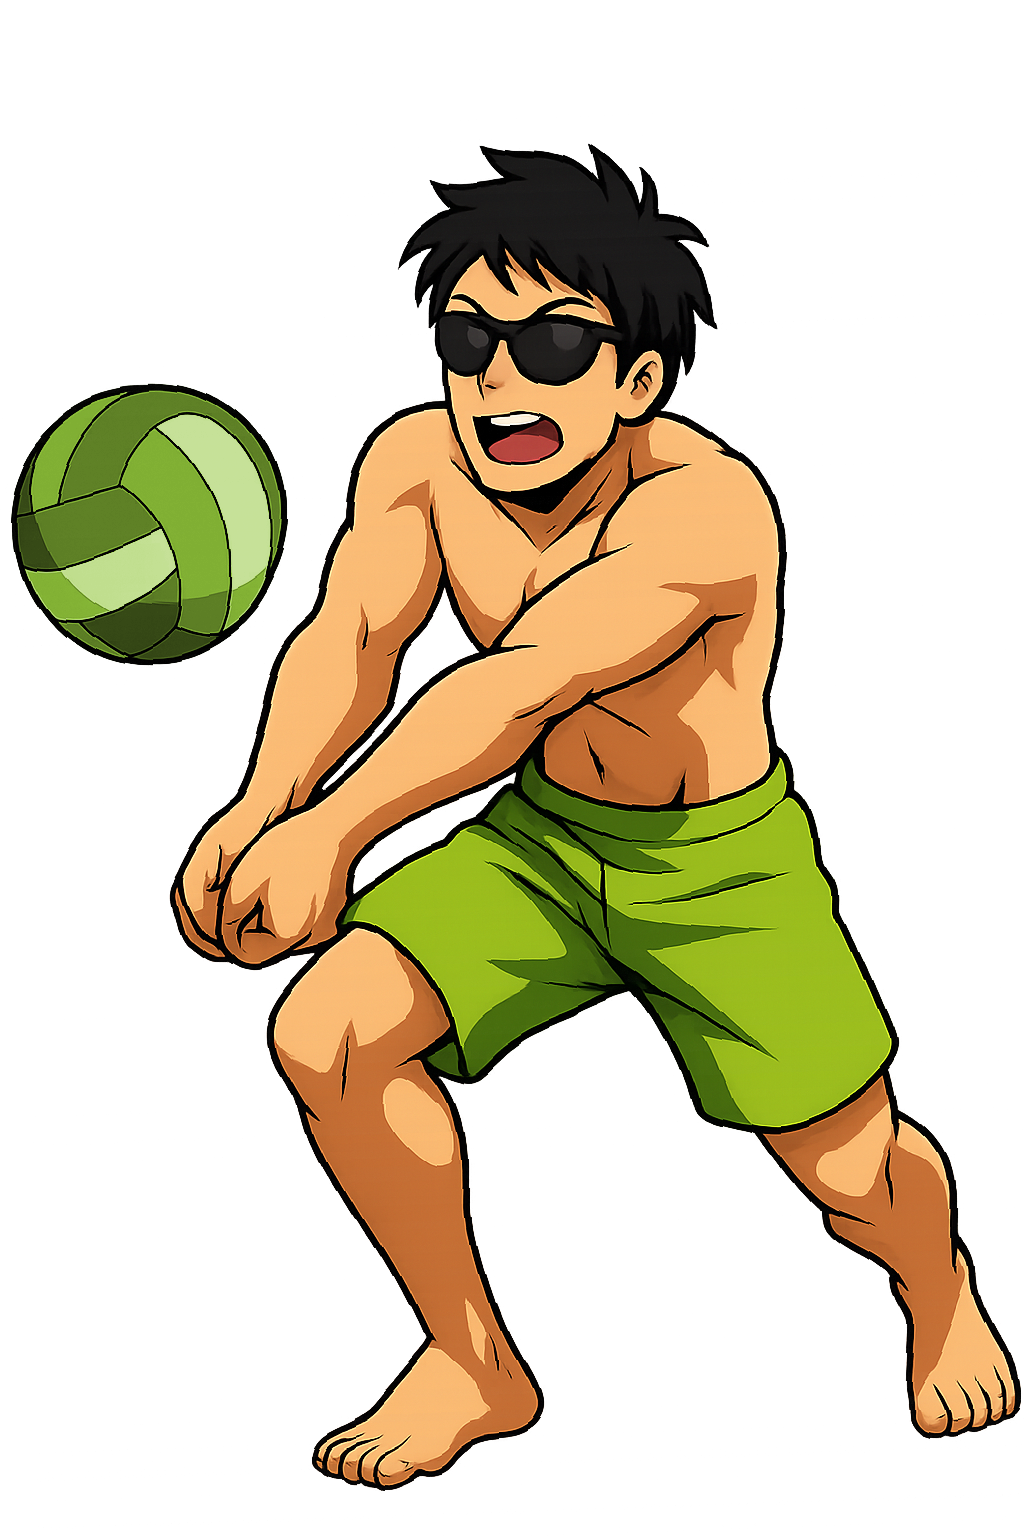
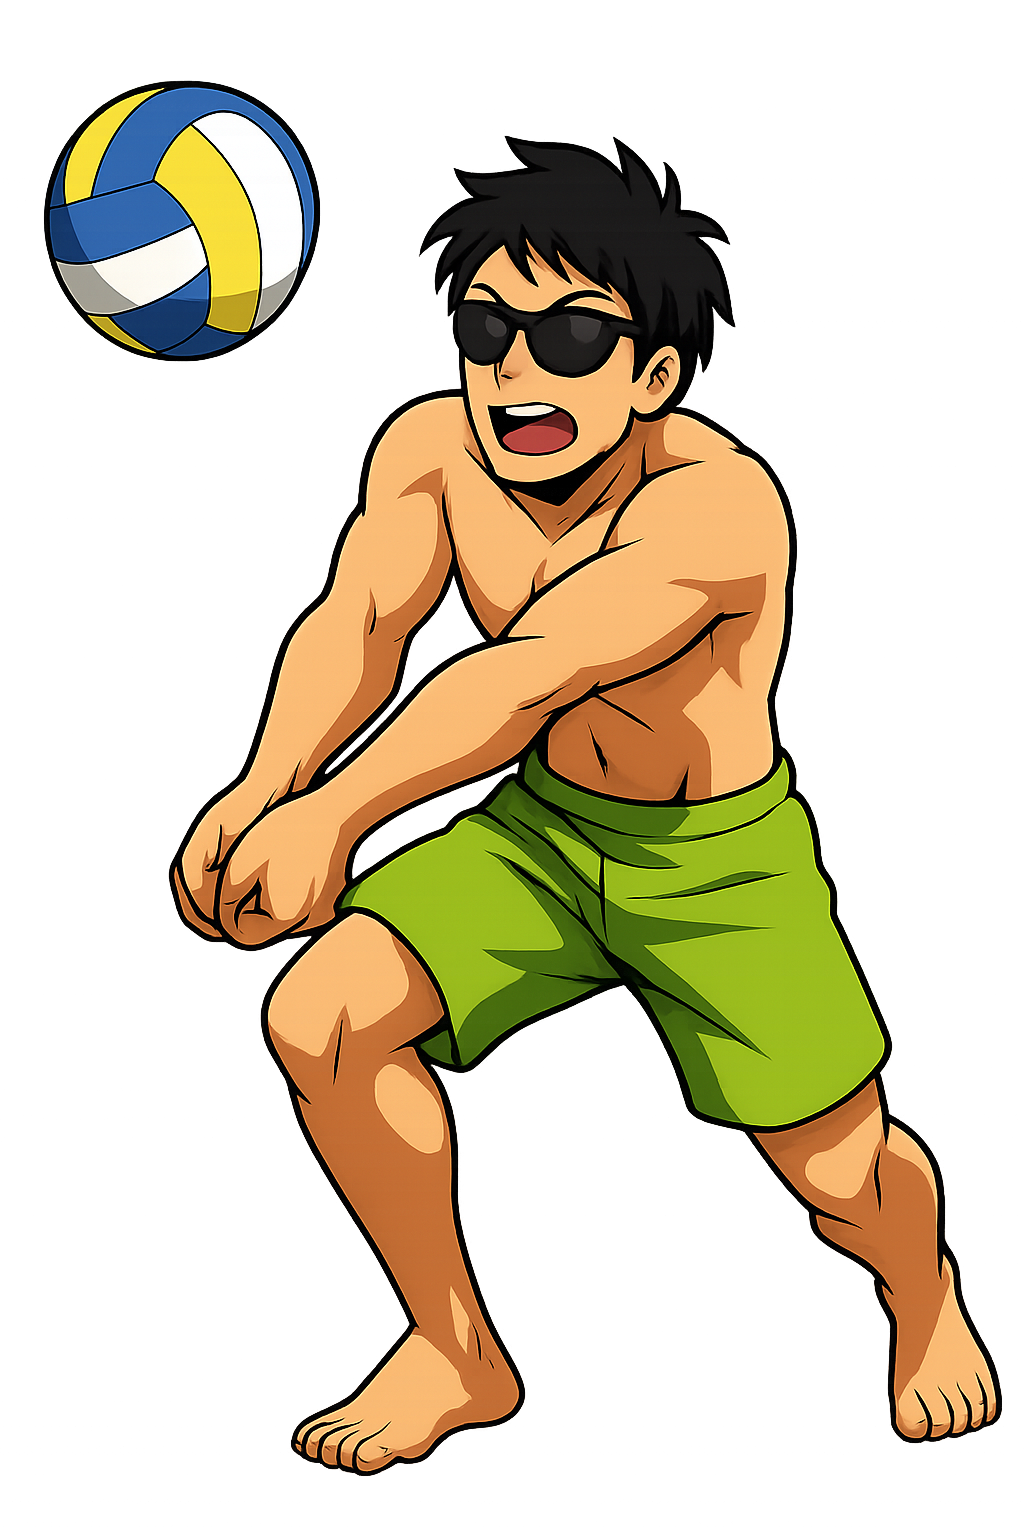
started working on match page

diff --git a/MatchBy/MatchBy/wwwroot/map.js b/MatchBy/MatchBy/wwwroot/map.js
@@ -1,3 +1,15 @@
+window.initMatchPageMap = (lat, lng) => {
+    window._matchPageLat = lat;
+    window._matchPageLng = lng;
+
+    const el = document.getElementById("matchPageMap");
+    if (el) {
+        window.initMapOn(el);
+    } else {
+        console.warn("matchPageMap não encontrado.");
+    }
+};
+
 window.initMapOn = async (el) => {
     const fallback = [0, 0];
 
@@ -44,7 +56,35 @@ window.initMapOn = async (el) => {
         }
     }
 
+    function distanceInKm(lat1, lon1, lat2, lon2) {
+            const R = 6371; // earth radius in km
+            const dLat = (lat2 - lat1) * Math.PI / 180;
+            const dLon = (lon2 - lon1) * Math.PI / 180;
+
+            const a =
+                Math.sin(dLat / 2) * Math.sin(dLat / 2) +
+                Math.cos(lat1 * Math.PI / 180) *
+                Math.cos(lat2 * Math.PI / 180) *
+                Math.sin(dLon / 2) * Math.sin(dLon / 2);
+
+            const c = 2 * Math.atan2(Math.sqrt(a), Math.sqrt(1 - a));
+
+            return R * c; 
+    }
+
     if (el.id === 'matchMap') {
+        if ('geolocation' in navigator) {
+            navigator.geolocation.getCurrentPosition(
+                (pos) => {
+                    const { latitude, longitude } = pos.coords;
+                    setPosition(latitude, longitude, 'Your location');
+                },
+                async () => await fallbackToCapital(),
+                { enableHighAccuracy: true, timeout: 8000, maximumAge: 30000 }
+            );
+        } else {
+            await fallbackToCapital();
+        }
         map.on('click', async (e) => {
             const { lat, lng } = e.latlng;
             setPosition(lat, lng, `Match location`);
@@ -69,17 +109,59 @@ window.initMapOn = async (el) => {
         });
     }
 
-    if ('geolocation' in navigator) {
-        navigator.geolocation.getCurrentPosition(
-            (pos) => {
-                const { latitude, longitude } = pos.coords;
-                setPosition(latitude, longitude, 'Your location');
-            },
-            async () => await fallbackToCapital(),
-            { enableHighAccuracy: true, timeout: 8000, maximumAge: 30000 }
-        );
-    } else {
-        await fallbackToCapital();
+    if (el.id === 'matchPageMap') {
+        const lat = window._matchPageLat;
+        const lng = window._matchPageLng;
+
+        const matchLatLng = [lat, lng];
+        const matchMarker = L.marker(matchLatLng)
+            .addTo(map)
+            .bindPopup("Match location");
+
+        window._matchMarker = matchMarker;
+
+        map.setView(matchLatLng, 15);
+
+        if ("geolocation" in navigator) {
+            navigator.geolocation.getCurrentPosition(
+                (pos) => {
+                    const userLat = pos.coords.latitude;
+                    const userLng = pos.coords.longitude;
+
+                    const userLatLng = [userLat, userLng];
+
+                    const userMarker = L.marker(userLatLng, { 
+                        icon: L.icon({
+                            iconUrl: "https://cdn-icons-png.flaticon.com/512/684/684908.png",
+                            iconSize: [35, 35],
+                            iconAnchor: [17, 34]
+                        })
+                    })
+                    .addTo(map);
+
+                    const distKm = distanceInKm(userLat, userLng, lat, lng);
+                    const distText =
+                        distKm < 1
+                            ? `${Math.round(distKm * 1000)} m`
+                            : `${distKm.toFixed(2)} km`;
+
+                    userMarker.bindPopup(`You are here<br>Distance to match: <b>${distText}</b>`);
+
+                    matchMarker.bindPopup(`Match location<br>Distance from you: <b>${distText}</b>`);
+
+                    L.polyline([userLatLng, matchLatLng], {
+                        color: "#405d13",
+                        weight: 5,
+                        opacity: 0.75
+                    }).addTo(map);
+
+                },
+                (err) => {
+                    console.warn("User location unavailable:", err);
+                },
+                { enableHighAccuracy: true, timeout: 8000, maximumAge: 30000 }
+            );
+        }
     }
 
     async function fallbackToCapital() {
@@ -107,7 +189,6 @@ window.initMapOn = async (el) => {
 
     setTimeout(() => map.invalidateSize(), 0);
 };
-
 
 window.registerMatchComponent = (dotnetObj) => {
     window._matchComponent = dotnetObj;
@@ -156,10 +237,13 @@ window.geocodeAddress = async function (address) {
 
     ensureInit(document.getElementById('matchMap'));
 
-    const obs = new MutationObserver((muts) => {
-        for (const m of muts)
-            for (const n of m.addedNodes)
-                ensureInit(n);
+    const first = document.getElementById('matchMap');
+    if (first) ensureInit(first);
+
+    const obs = new MutationObserver((mutations) => {
+        for (const m of mutations)
+            for (const added of m.addedNodes)
+                ensureInit(added);
     });
 
     obs.observe(document.body, { childList: true, subtree: true });

diff --git a/MatchBy/MatchBy/Enums/Sports.cs b/MatchBy/MatchBy/Enums/Sports.cs
@@ -5,7 +5,10 @@ public enum Sports
     Football = 0,
     Basketball = 1,
     Volleyball = 2,
-    Futsal = 3,
+    Futsal = 3, 
     Tennis = 4,
-    Paddle = 5
+    Paddle = 5,
+    Handball = 6,
+    Rugby = 7,
+    Hockey = 8,
 }

diff --git a/MatchBy/MatchBy/Services/MatchesService.cs b/MatchBy/MatchBy/Services/MatchesService.cs
@@ -23,13 +23,14 @@ public class MatchesService(ApplicationDbContext applicationDbContext) : IMatche
 
     public async Task<Match?> GetMatchById(string matchId)
     {
-        Match? match = await applicationDbContext
+        return await applicationDbContext
             .Matches
             .Include(m => m.Participants)
+            .Include(m => m.Creator)
+            .Include(m => m.Conversation)
             .FirstOrDefaultAsync(m => m.Id == matchId);
-
-        return match;
     }
+
 
     public async Task<bool> CreateMatch(Match match)
     {